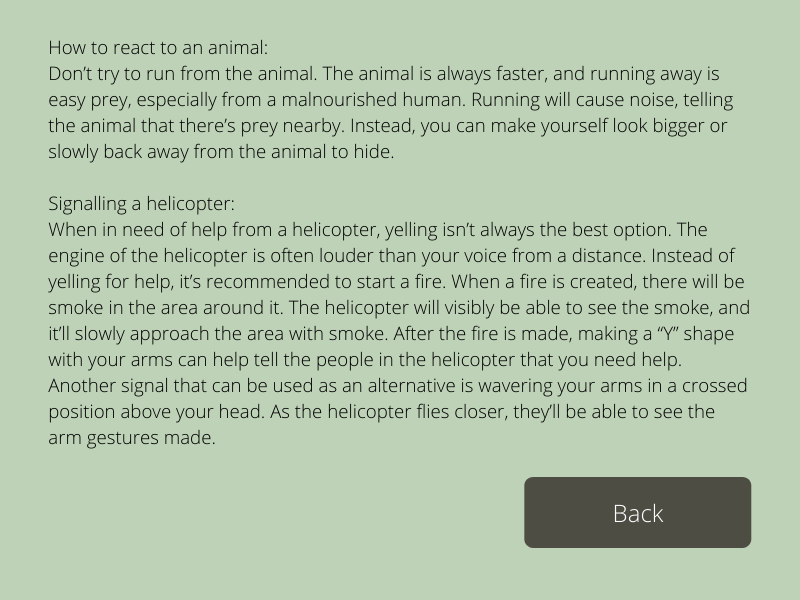
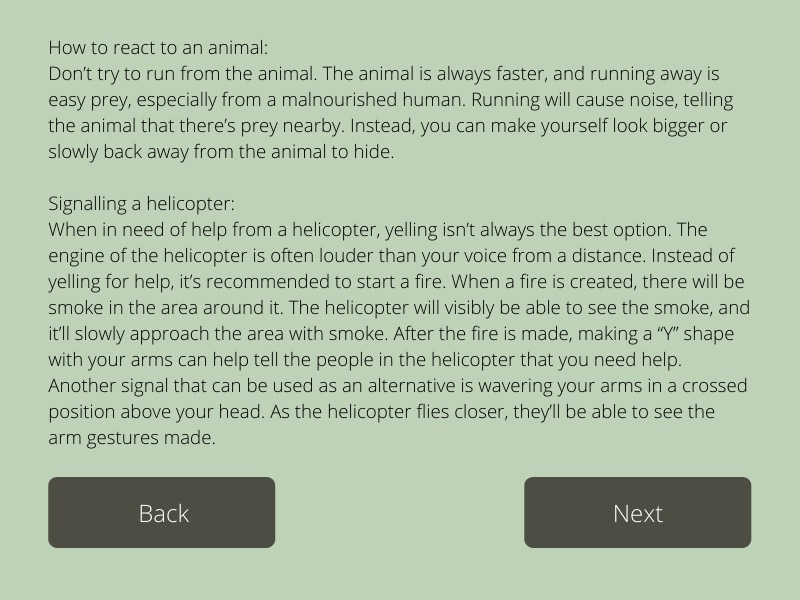
Add files via upload

Changed region(s): [[0.0625, 0.78, 0.3438, 0.93], [0.75, 0.84, 0.8438, 0.87]]

diff --git a/python project.py b/python project.py
@@ -4,7 +4,7 @@
 
 # Date: December 11, 2021
 
-# Last modified: December 21, 2021 2:35 pm by Catharine
+# Last modified: December 22, 2021 2:07 pm by Catharine
 
 # Name: Python Project (Wildlife Survival Guide)
 
@@ -39,6 +39,10 @@ animationEnding5Bg = pygame.image.load('images/animationending5.png')
 instructionsBg = pygame.image.load('images/instructions.png')
 lesson1Bg = pygame.image.load('images/lesson1.png')
 lesson2Bg = pygame.image.load('images/lesson2.png')
+citations1Bg = pygame.image.load('images/citations1.png')
+citations2Bg = pygame.image.load('images/citations2.png')
+citations3Bg = pygame.image.load('images/citations3.png')
+citations4Bg = pygame.image.load('images/citations4.png')
 icon = pygame.image.load('images/icon.png')
 storyButton = pygame.image.load('images/interactivestorybutton.png')
 storyButton = pygame.transform.scale(storyButton, (227, 71))
@@ -559,14 +563,118 @@ def lesson2():
             
             if show == 'Lesson2':
                 if y >= 477 and y <= 548:
-                    if x >= 524 and x <= 751:
+                    if x >= 48 and x <= 275:
                         if ev.type == pygame.MOUSEBUTTONDOWN:
-                            show = 'Lesson'
+                            show = 'Lesson' 
                             lesson()
-                    elif x >= 48 and x <= 276:
+                    elif x >= 524 and x <= 751:
                         if ev.type == pygame.MOUSEBUTTONDOWN:
-                            show = 'Main Menu'
-                            gameLoop()
+                            show = 'Citations1'
+                            citations1()
+                            
+def citations1():
+    gameExit = False 
+    gameDisplay = pygame.display.set_mode((800, 600))   
+    gameDisplay.fill((0, 0, 0))
+    gameDisplay.blit(citations1Bg, (0, 0)) # Sets background image
+    pygame.display.update()
+    clock.tick(60)
+    show = 'Citations1'
+    
+    while not gameExit:
+        for ev in pygame.event.get():
+            event = pygame.event.get()
+            clickPos = pygame.mouse.get_pos()
+            x = clickPos[0]
+            y = clickPos[1]
+            
+            if show == 'Citations1':
+                if y >= 477 and y <= 548:
+                    if x >= 48 and x <= 275:
+                        if ev.type == pygame.MOUSEBUTTONDOWN:
+                            show = 'Lesson2' 
+                            lesson2()
+                    elif x >= 524 and x <= 751:
+                        if ev.type == pygame.MOUSEBUTTONDOWN:
+                            show = 'Citations2'
+                            citations2()    
+                            
+def citations2():
+    gameExit = False 
+    gameDisplay = pygame.display.set_mode((800, 600))   
+    gameDisplay.fill((0, 0, 0))
+    gameDisplay.blit(citations2Bg, (0, 0)) # Sets background image
+    pygame.display.update()
+    clock.tick(60)
+    show = 'Citations2'
+    
+    while not gameExit:
+        for ev in pygame.event.get():
+            event = pygame.event.get()
+            clickPos = pygame.mouse.get_pos()
+            x = clickPos[0]
+            y = clickPos[1]
+            
+            if show == 'Citations2':
+                if y >= 477 and y <= 548:
+                    if x >= 48 and x <= 275:
+                        if ev.type == pygame.MOUSEBUTTONDOWN:
+                            show = 'Citations1' 
+                            citations1()
+                    elif x >= 524 and x <= 751:
+                        if ev.type == pygame.MOUSEBUTTONDOWN:
+                            show = 'Citations3'
+                            citations3()  
+
+def citations3():
+    gameExit = False 
+    gameDisplay = pygame.display.set_mode((800, 600))   
+    gameDisplay.fill((0, 0, 0))
+    gameDisplay.blit(citations3Bg, (0, 0)) # Sets background image
+    pygame.display.update()
+    clock.tick(60)
+    show = 'Citations3'
+    
+    while not gameExit:
+        for ev in pygame.event.get():
+            event = pygame.event.get()
+            clickPos = pygame.mouse.get_pos()
+            x = clickPos[0]
+            y = clickPos[1]
+            
+            if show == 'Citations3':
+                if y >= 477 and y <= 548:
+                    if x >= 48 and x <= 275:
+                        if ev.type == pygame.MOUSEBUTTONDOWN:
+                            show = 'Citations2' 
+                            citations2()
+                    elif x >= 524 and x <= 751:
+                        if ev.type == pygame.MOUSEBUTTONDOWN:
+                            show = 'Citations4'
+                            citations4()  
+                            
+def citations4():
+    gameExit = False 
+    gameDisplay = pygame.display.set_mode((800, 600))   
+    gameDisplay.fill((0, 0, 0))
+    gameDisplay.blit(citations4Bg, (0, 0)) # Sets background image
+    pygame.display.update()
+    clock.tick(60)
+    show = 'Citations4'
+    
+    while not gameExit:
+        for ev in pygame.event.get():
+            event = pygame.event.get()
+            clickPos = pygame.mouse.get_pos()
+            x = clickPos[0]
+            y = clickPos[1]
+            
+            if show == 'Citations4':
+                if y >= 477 and y <= 548:
+                    if x >= 48 and x <= 275:
+                        if ev.type == pygame.MOUSEBUTTONDOWN:
+                            show = 'Citations3' 
+                            citations3()
 
 # Start game loop
 gameLoop()
